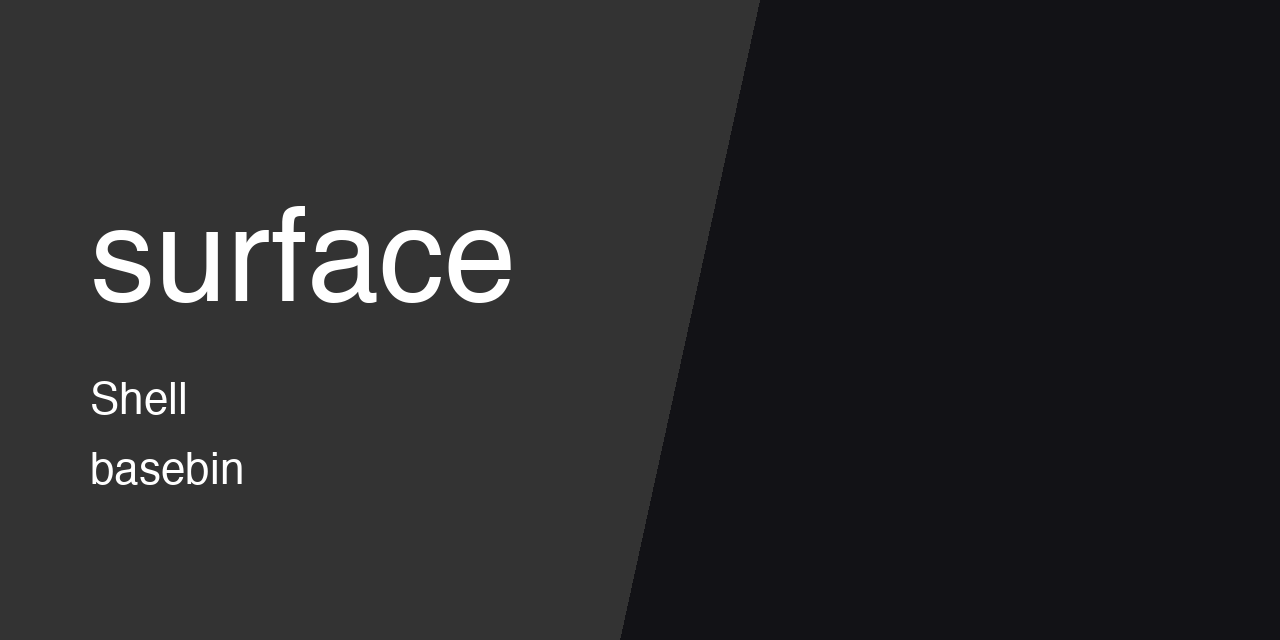
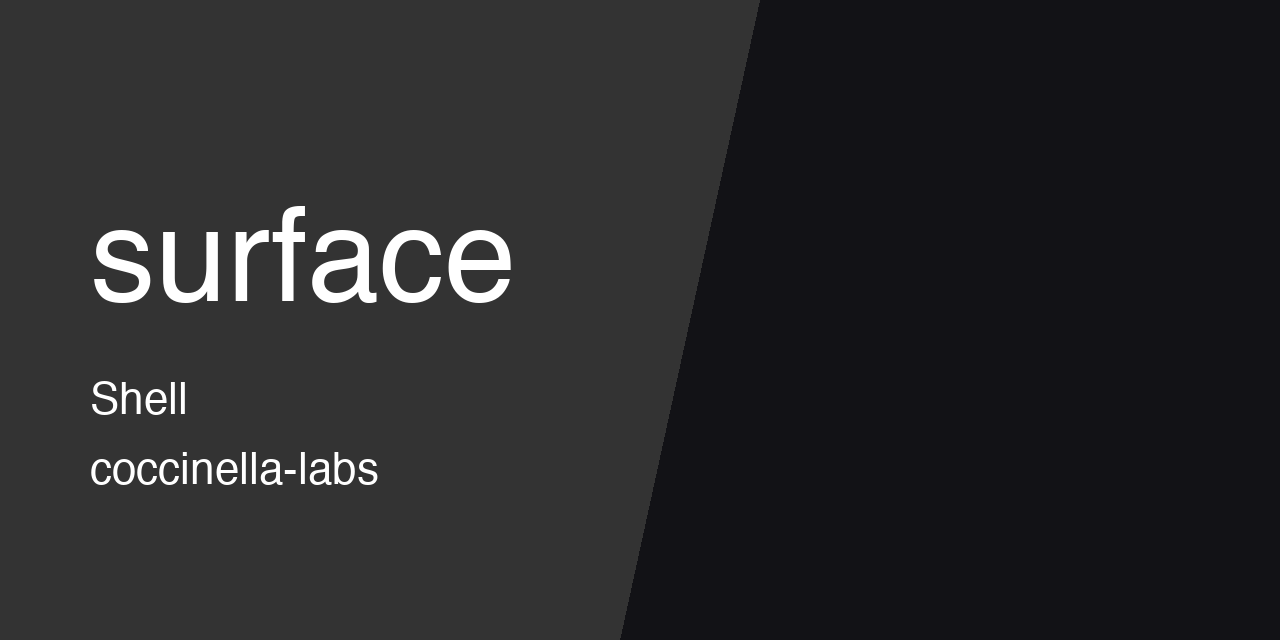
[docs] move thumbnail to coccinella-labs

Changed region(s): [[0.0625, 0.7188, 0.3125, 0.7812]]

diff --git a/README.md b/README.md
@@ -1,5 +1,5 @@
 <p align="center">
-  <img src="https://raw.githubusercontent.com/basebin/surface/main/.github/assets/thumbnail.png" alt="surface" width="100%">
+  <img src="https://raw.githubusercontent.com/Coccinella-Labs/surface/main/.github/assets/thumbnail.png" alt="surface" width="100%">
 </p>
 
 github surface audit.
